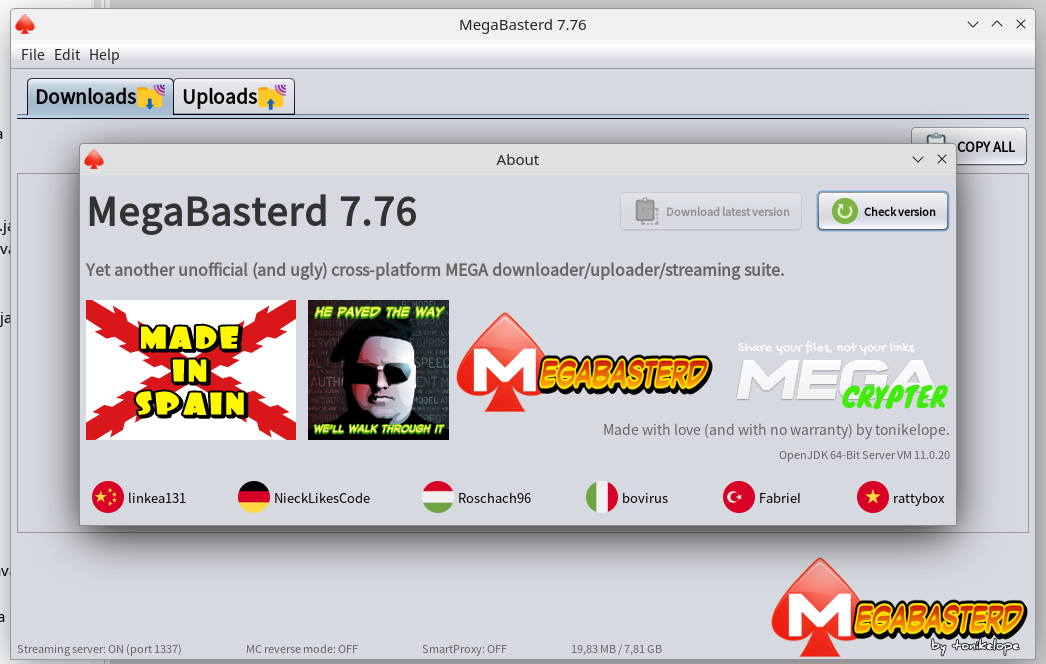
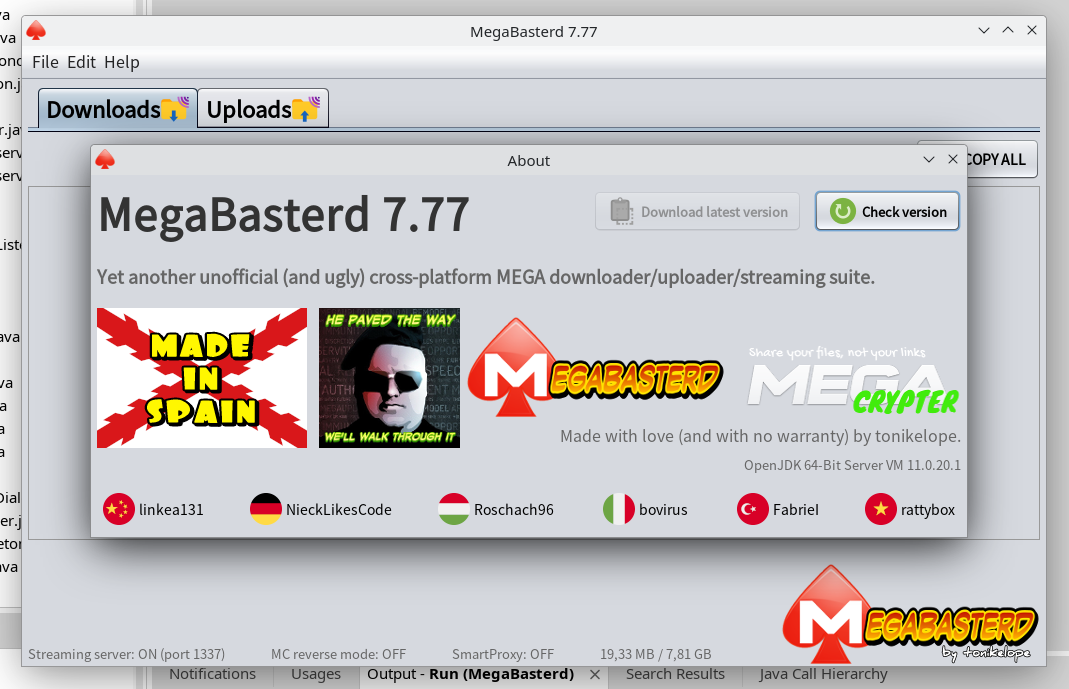
7.77
Decryption error in uploads corrected, but from now on, the uploaded folder is not shared by default (it is necessary to share it manually from the MEGA website).

Changed region(s): [[0.0, 0.0, 1.0, 1.0]]

diff --git a/src/main/java/com/tonikelope/megabasterd/UploadView.java b/src/main/java/com/tonikelope/megabasterd/UploadView.java
@@ -93,14 +93,6 @@ public class UploadView extends javax.swing.JPanel implements TransferenceView {
         return file_link_button;
     }
 
-    public JButton getFolder_link_button() {
-        return folder_link_button;
-    }
-
-    public JButton getOpen_browser_button() {
-        return open_browser_button;
-    }
-
     public JLabel getStatus_label() {
         return status_label;
     }
@@ -165,14 +157,12 @@ public class UploadView extends javax.swing.JPanel implements TransferenceView {
         restart_button = new javax.swing.JButton();
         file_size_label = new javax.swing.JLabel();
         slot_status_label = new javax.swing.JLabel();
-        folder_link_button = new javax.swing.JButton();
         file_link_button = new javax.swing.JButton();
         queue_up_button = new javax.swing.JButton();
         queue_down_button = new javax.swing.JButton();
         cbc_label = new javax.swing.JLabel();
         queue_top_button = new javax.swing.JButton();
         queue_bottom_button = new javax.swing.JButton();
-        open_browser_button = new javax.swing.JButton();
 
         setBorder(new javax.swing.border.LineBorder(new java.awt.Color(153, 204, 255), 3, true));
 
@@ -258,15 +248,6 @@ public class UploadView extends javax.swing.JPanel implements TransferenceView {
         slot_status_label.setHorizontalAlignment(javax.swing.SwingConstants.RIGHT);
         slot_status_label.setDoubleBuffered(true);
 
-        folder_link_button.setFont(new java.awt.Font("Dialog", 1, 16)); // NOI18N
-        folder_link_button.setIcon(new javax.swing.ImageIcon(getClass().getResource("/images/icons8-copy-to-clipboard-30.png"))); // NOI18N
-        folder_link_button.setText("Copy folder link");
-        folder_link_button.addActionListener(new java.awt.event.ActionListener() {
-            public void actionPerformed(java.awt.event.ActionEvent evt) {
-                folder_link_buttonActionPerformed(evt);
-            }
-        });
-
         file_link_button.setFont(new java.awt.Font("Dialog", 1, 16)); // NOI18N
         file_link_button.setIcon(new javax.swing.ImageIcon(getClass().getResource("/images/icons8-copy-to-clipboard-30.png"))); // NOI18N
         file_link_button.setText("Copy file link");
@@ -316,16 +297,6 @@ public class UploadView extends javax.swing.JPanel implements TransferenceView {
             }
         });
 
-        open_browser_button.setFont(new java.awt.Font("Dialog", 1, 16)); // NOI18N
-        open_browser_button.setIcon(new javax.swing.ImageIcon(getClass().getResource("/images/icons8-export-30.png"))); // NOI18N
-        open_browser_button.setText("Open folder in browser");
-        open_browser_button.setDoubleBuffered(true);
-        open_browser_button.addActionListener(new java.awt.event.ActionListener() {
-            public void actionPerformed(java.awt.event.ActionEvent evt) {
-                open_browser_buttonActionPerformed(evt);
-            }
-        });
-
         javax.swing.GroupLayout layout = new javax.swing.GroupLayout(this);
         this.setLayout(layout);
         layout.setHorizontalGroup(
@@ -336,11 +307,7 @@ public class UploadView extends javax.swing.JPanel implements TransferenceView {
                     .addComponent(progress_pbar, javax.swing.GroupLayout.DEFAULT_SIZE, javax.swing.GroupLayout.DEFAULT_SIZE, Short.MAX_VALUE)
                     .addGroup(layout.createSequentialGroup()
                         .addComponent(file_size_label, javax.swing.GroupLayout.DEFAULT_SIZE, javax.swing.GroupLayout.DEFAULT_SIZE, Short.MAX_VALUE)
-                        .addPreferredGap(javax.swing.LayoutStyle.ComponentPlacement.RELATED)
-                        .addComponent(open_browser_button)
-                        .addPreferredGap(javax.swing.LayoutStyle.ComponentPlacement.RELATED)
-                        .addComponent(folder_link_button)
-                        .addPreferredGap(javax.swing.LayoutStyle.ComponentPlacement.RELATED)
+                        .addPreferredGap(javax.swing.LayoutStyle.ComponentPlacement.RELATED, javax.swing.GroupLayout.DEFAULT_SIZE, Short.MAX_VALUE)
                         .addComponent(file_link_button))
                     .addGroup(layout.createSequentialGroup()
                         .addComponent(file_name_label, javax.swing.GroupLayout.DEFAULT_SIZE, javax.swing.GroupLayout.DEFAULT_SIZE, Short.MAX_VALUE)
@@ -368,7 +335,7 @@ public class UploadView extends javax.swing.JPanel implements TransferenceView {
                                 .addComponent(queue_bottom_button)
                                 .addGap(0, 0, Short.MAX_VALUE))
                             .addGroup(layout.createSequentialGroup()
-                                .addComponent(status_label, javax.swing.GroupLayout.DEFAULT_SIZE, 446, Short.MAX_VALUE)
+                                .addComponent(status_label, javax.swing.GroupLayout.DEFAULT_SIZE, javax.swing.GroupLayout.DEFAULT_SIZE, Short.MAX_VALUE)
                                 .addGap(18, 18, 18)
                                 .addComponent(cbc_label)))
                         .addGap(18, 18, 18)
@@ -397,12 +364,9 @@ public class UploadView extends javax.swing.JPanel implements TransferenceView {
                     .addComponent(file_name_label)
                     .addComponent(slot_status_label))
                 .addPreferredGap(javax.swing.LayoutStyle.ComponentPlacement.RELATED)
-                .addGroup(layout.createParallelGroup(javax.swing.GroupLayout.Alignment.LEADING)
-                    .addComponent(open_browser_button)
-                    .addGroup(layout.createParallelGroup(javax.swing.GroupLayout.Alignment.BASELINE)
-                        .addComponent(folder_link_button)
-                        .addComponent(file_link_button)
-                        .addComponent(file_size_label)))
+                .addGroup(layout.createParallelGroup(javax.swing.GroupLayout.Alignment.BASELINE)
+                    .addComponent(file_link_button)
+                    .addComponent(file_size_label))
                 .addPreferredGap(javax.swing.LayoutStyle.ComponentPlacement.RELATED)
                 .addComponent(progress_pbar, javax.swing.GroupLayout.PREFERRED_SIZE, javax.swing.GroupLayout.DEFAULT_SIZE, javax.swing.GroupLayout.PREFERRED_SIZE)
                 .addPreferredGap(javax.swing.LayoutStyle.ComponentPlacement.RELATED)
@@ -462,19 +426,6 @@ public class UploadView extends javax.swing.JPanel implements TransferenceView {
             }
         });
     }
-
-    private void folder_link_buttonActionPerformed(java.awt.event.ActionEvent evt) {//GEN-FIRST:event_folder_link_buttonActionPerformed
-
-        folder_link_button.setEnabled(false);
-
-        folder_link_button.setText(LabelTranslatorSingleton.getInstance().translate("Please wait..."));
-
-        copyTextToClipboard(_upload.getFolder_link());
-
-        folder_link_button.setText(LabelTranslatorSingleton.getInstance().translate("Copy folder link"));
-
-        folder_link_button.setEnabled(true);
-    }//GEN-LAST:event_folder_link_buttonActionPerformed
 
     private void file_link_buttonActionPerformed(java.awt.event.ActionEvent evt) {//GEN-FIRST:event_file_link_buttonActionPerformed
 
@@ -540,11 +491,6 @@ public class UploadView extends javax.swing.JPanel implements TransferenceView {
             });
         });
     }//GEN-LAST:event_queue_bottom_buttonActionPerformed
-
-    private void open_browser_buttonActionPerformed(java.awt.event.ActionEvent evt) {//GEN-FIRST:event_open_browser_buttonActionPerformed
-        // TODO add your handling code here:
-        MiscTools.openBrowserURL(_upload.getFolder_link());
-    }//GEN-LAST:event_open_browser_buttonActionPerformed
 
     public void updateCBC(String status) {
 
@@ -697,8 +643,6 @@ public class UploadView extends javax.swing.JPanel implements TransferenceView {
     private javax.swing.JButton file_link_button;
     private javax.swing.JLabel file_name_label;
     private javax.swing.JLabel file_size_label;
-    private javax.swing.JButton folder_link_button;
-    private javax.swing.JButton open_browser_button;
     private javax.swing.JButton pause_button;
     private javax.swing.JProgressBar progress_pbar;
     private javax.swing.JButton queue_bottom_button;

diff --git a/src/main/java/com/tonikelope/megabasterd/SettingsDialog.java b/src/main/java/com/tonikelope/megabasterd/SettingsDialog.java
@@ -12,7 +12,6 @@ package com.tonikelope.megabasterd;
 import static com.tonikelope.megabasterd.DBTools.*;
 import static com.tonikelope.megabasterd.MainPanel.*;
 import static com.tonikelope.megabasterd.MiscTools.*;
-import java.awt.Color;
 import java.awt.Dialog;
 import java.awt.Frame;
 import java.io.BufferedInputStream;
@@ -661,22 +660,6 @@ public class SettingsDialog extends javax.swing.JDialog {
                 custom_proxy_textarea.setText(custom_proxy_list);
             }
 
-            String mega_api_key_sql = DBTools.selectSettingValue("mega_api_key");
-
-            if (mega_api_key_sql != null && !"".equals(mega_api_key_sql)) {
-                mega_api_key.setText(mega_api_key_sql);
-                mega_api_key_panel.setBackground(new Color(153, 255, 153));
-                mega_api_key_warning.setVisible(false);
-                mega_api_key_label.setVisible(modal);
-                MegaAPI.API_KEY = mega_api_key_sql.trim();
-            } else {
-                mega_api_key_panel.setBackground(Color.red);
-                mega_api_key_warning.setForeground(Color.white);
-                mega_api_key_label.setForeground(Color.WHITE);
-                mega_api_key_warning.setVisible(true);
-                MegaAPI.API_KEY = null;
-            }
-
             setPreferredSize(parent.getSize());
 
             pack();
@@ -787,11 +770,6 @@ public class SettingsDialog extends javax.swing.JDialog {
         run_command_textbox.addMouseListener(new ContextMenuMouseListener());
         run_command_test_button = new javax.swing.JButton();
         debug_file_checkbox = new javax.swing.JCheckBox();
-        mega_api_key_panel = new javax.swing.JPanel();
-        mega_api_key_label = new javax.swing.JLabel();
-        mega_api_key = new javax.swing.JTextField();
-        mega_api_key.addMouseListener(new ContextMenuMouseListener());
-        mega_api_key_warning = new javax.swing.JLabel();
         status = new javax.swing.JLabel();
 
         setDefaultCloseOperation(javax.swing.WindowConstants.DISPOSE_ON_CLOSE);
@@ -1599,49 +1577,6 @@ public class SettingsDialog extends javax.swing.JDialog {
         debug_file_checkbox.setFont(new java.awt.Font("Dialog", 1, 18)); // NOI18N
         debug_file_checkbox.setText("Save debug info to file");
 
-        mega_api_key_panel.setOpaque(false);
-
-        mega_api_key_label.setFont(new java.awt.Font("Dialog", 1, 18)); // NOI18N
-        mega_api_key_label.setText("MEGA API KEY:");
-        mega_api_key_label.setDoubleBuffered(true);
-
-        mega_api_key.setFont(new java.awt.Font("Dialog", 0, 18)); // NOI18N
-        mega_api_key.setDoubleBuffered(true);
-        mega_api_key.setEnabled(false);
-
-        mega_api_key_warning.setFont(new java.awt.Font("Dialog", 1, 14)); // NOI18N
-        mega_api_key_warning.setForeground(new java.awt.Color(0, 0, 255));
-        mega_api_key_warning.setHorizontalAlignment(javax.swing.SwingConstants.CENTER);
-        mega_api_key_warning.setText("MEGA API KEY IS NO LONGER REQUIRED (DISABLED)");
-        mega_api_key_warning.setCursor(new java.awt.Cursor(java.awt.Cursor.HAND_CURSOR));
-        mega_api_key_warning.setDoubleBuffered(true);
-
-        javax.swing.GroupLayout mega_api_key_panelLayout = new javax.swing.GroupLayout(mega_api_key_panel);
-        mega_api_key_panel.setLayout(mega_api_key_panelLayout);
-        mega_api_key_panelLayout.setHorizontalGroup(
-            mega_api_key_panelLayout.createParallelGroup(javax.swing.GroupLayout.Alignment.LEADING)
-            .addGroup(mega_api_key_panelLayout.createSequentialGroup()
-                .addContainerGap()
-                .addGroup(mega_api_key_panelLayout.createParallelGroup(javax.swing.GroupLayout.Alignment.LEADING)
-                    .addComponent(mega_api_key_warning, javax.swing.GroupLayout.DEFAULT_SIZE, javax.swing.GroupLayout.DEFAULT_SIZE, Short.MAX_VALUE)
-                    .addGroup(mega_api_key_panelLayout.createSequentialGroup()
-                        .addComponent(mega_api_key_label)
-                        .addPreferredGap(javax.swing.LayoutStyle.ComponentPlacement.RELATED)
-                        .addComponent(mega_api_key)))
-                .addContainerGap())
-        );
-        mega_api_key_panelLayout.setVerticalGroup(
-            mega_api_key_panelLayout.createParallelGroup(javax.swing.GroupLayout.Alignment.LEADING)
-            .addGroup(mega_api_key_panelLayout.createSequentialGroup()
-                .addContainerGap()
-                .addGroup(mega_api_key_panelLayout.createParallelGroup(javax.swing.GroupLayout.Alignment.BASELINE)
-                    .addComponent(mega_api_key_label)
-                    .addComponent(mega_api_key, javax.swing.GroupLayout.PREFERRED_SIZE, javax.swing.GroupLayout.DEFAULT_SIZE, javax.swing.GroupLayout.PREFERRED_SIZE))
-                .addPreferredGap(javax.swing.LayoutStyle.ComponentPlacement.UNRELATED)
-                .addComponent(mega_api_key_warning)
-                .addContainerGap())
-        );
-
         javax.swing.GroupLayout advanced_panelLayout = new javax.swing.GroupLayout(advanced_panel);
         advanced_panel.setLayout(advanced_panelLayout);
         advanced_panelLayout.setHorizontalGroup(
@@ -1649,7 +1584,6 @@ public class SettingsDialog extends javax.swing.JDialog {
             .addGroup(advanced_panelLayout.createSequentialGroup()
                 .addContainerGap()
                 .addGroup(advanced_panelLayout.createParallelGroup(javax.swing.GroupLayout.Alignment.LEADING)
-                    .addComponent(mega_api_key_panel, javax.swing.GroupLayout.DEFAULT_SIZE, javax.swing.GroupLayout.DEFAULT_SIZE, Short.MAX_VALUE)
                     .addGroup(advanced_panelLayout.createSequentialGroup()
                         .addGroup(advanced_panelLayout.createParallelGroup(javax.swing.GroupLayout.Alignment.LEADING)
                             .addGroup(advanced_panelLayout.createSequentialGroup()
@@ -1718,8 +1652,6 @@ public class SettingsDialog extends javax.swing.JDialog {
                 .addPreferredGap(javax.swing.LayoutStyle.ComponentPlacement.RELATED)
                 .addComponent(custom_chunks_dir_current_label)
                 .addPreferredGap(javax.swing.LayoutStyle.ComponentPlacement.UNRELATED)
-                .addComponent(mega_api_key_panel, javax.swing.GroupLayout.PREFERRED_SIZE, javax.swing.GroupLayout.DEFAULT_SIZE, javax.swing.GroupLayout.PREFERRED_SIZE)
-                .addGap(18, 18, 18)
                 .addComponent(start_frozen_checkbox)
                 .addGap(18, 18, 18)
                 .addComponent(debug_file_checkbox)
@@ -1838,7 +1770,7 @@ public class SettingsDialog extends javax.swing.JDialog {
             settings.put("custom_chunks_dir", _custom_chunks_dir);
             settings.put("run_command", run_command_checkbox.isSelected() ? "yes" : "no");
             settings.put("run_command_path", run_command_textbox.getText());
-            settings.put("mega_api_key", mega_api_key.getText().trim());
+
             settings.put("clipboardspy", clipboardspy_checkbox.isSelected() ? "yes" : "no");
             settings.put("thumbnails", thumbnail_checkbox.isSelected() ? "yes" : "no");
             settings.put("upload_log", upload_log_checkbox.isSelected() ? "yes" : "no");
@@ -3168,10 +3100,6 @@ public class SettingsDialog extends javax.swing.JDialog {
     private javax.swing.JLabel mega_accounts_label;
     private javax.swing.JScrollPane mega_accounts_scrollpane;
     private javax.swing.JTable mega_accounts_table;
-    private javax.swing.JTextField mega_api_key;
-    private javax.swing.JLabel mega_api_key_label;
-    private javax.swing.JPanel mega_api_key_panel;
-    private javax.swing.JLabel mega_api_key_warning;
     private javax.swing.JCheckBox megacrypter_reverse_checkbox;
     private javax.swing.JLabel megacrypter_reverse_port_label;
     private javax.swing.JSpinner megacrypter_reverse_port_spinner;

diff --git a/src/main/java/com/tonikelope/megabasterd/MainPanel.java b/src/main/java/com/tonikelope/megabasterd/MainPanel.java
@@ -67,7 +67,7 @@ import javax.swing.UIManager;
  */
 public final class MainPanel {
 
-    public static final String VERSION = "7.76";
+    public static final String VERSION = "7.77";
     public static final boolean FORCE_SMART_PROXY = false; //TRUE FOR DEBUGING SMART PROXY
     public static final int THROTTLE_SLICE_SIZE = 16 * 1024;
     public static final int DEFAULT_BYTE_BUFFER_SIZE = 16 * 1024;
@@ -1120,7 +1120,7 @@ public final class MainPanel {
                                         upload.getView().printStatusNormal("Stopping upload safely before exit MegaBasterd, please wait...");
                                         upload.getView().getSlots_spinner().setEnabled(false);
                                         upload.getView().getPause_button().setEnabled(false);
-                                        upload.getView().getFolder_link_button().setEnabled(false);
+
                                         upload.getView().getFile_link_button().setEnabled(false);
                                         upload.getView().getFile_size_label().setEnabled(false);
                                         upload.getView().getFile_name_label().setEnabled(false);

diff --git a/src/main/java/com/tonikelope/megabasterd/MainPanelView.java b/src/main/java/com/tonikelope/megabasterd/MainPanelView.java
@@ -261,9 +261,9 @@ public final class MainPanelView extends javax.swing.JFrame {
 
                         LOG.log(Level.INFO, "{0} Dir {1} created", new Object[]{Thread.currentThread().getName(), parent_node});
 
-                        ma.shareFolder(parent_node, parent_key, share_key);
-
-                        String folder_link = ma.getPublicFolderLink(parent_node, share_key);
+                        //ma.shareFolder(parent_node, parent_key, share_key); //DE MOMENTO NO HAY OTRA
+                        //String folder_link = ma.getPublicFolderLink(parent_node, share_key);
+                        String folder_link = null; //No hay otra
 
                         if (dialog.getUpload_log_checkbox().isSelected()) {
 
